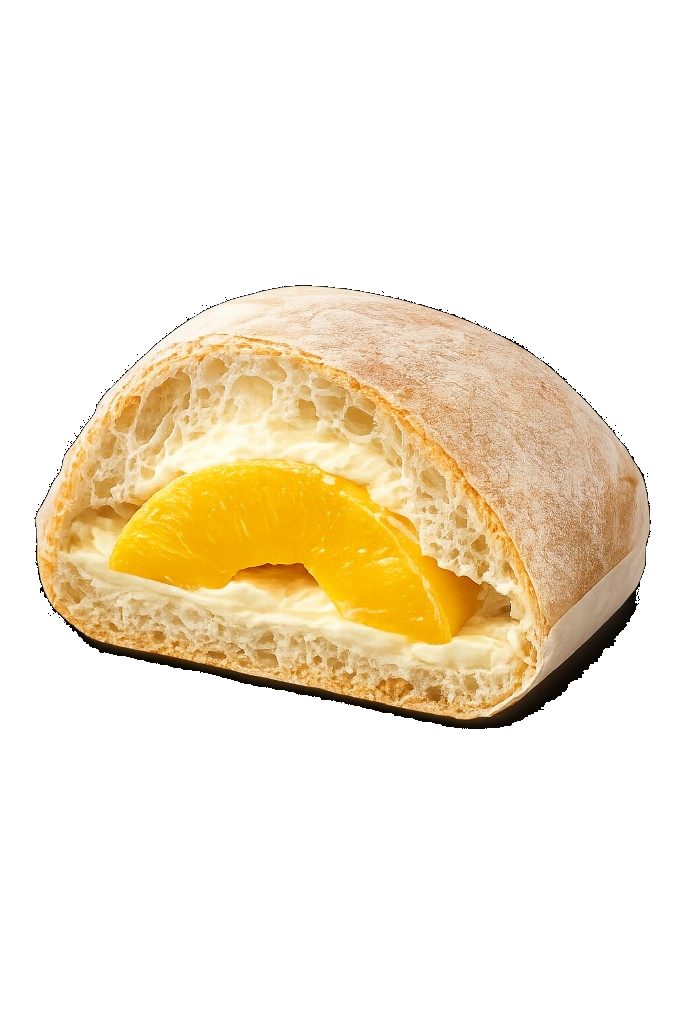
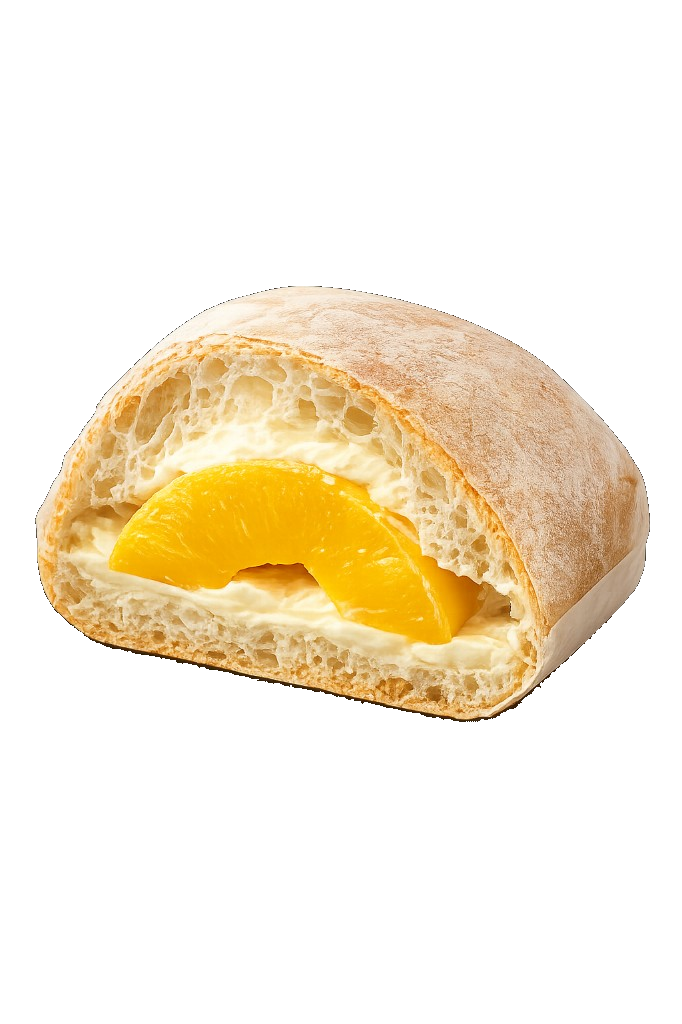
Fix artisan bread product photo matting.
Replace the kaya baguette image while keeping the kraft tray, and clear leftover black backgrounds on the ciabatta photos.

diff --git a/docs/script.js b/docs/script.js
@@ -293,10 +293,10 @@ const menuData = [
   { name: { en: "Chocolate Baguette", ko: "초콜릿바게트" }, category: "artisanBread", description: { en: "A chocolate baguette made with unsweetened cocoa powder, filled with rich dark chocolate for a luxurious chocolate taste.", ko: "무가당 카카오가루로 만든 초코바게트 속에 진한 다크초콜릿을 넣어 고급스러운 초콜릿맛을 느낄 수 있는 바게트", vi: "Baguette socola lam tu bot cacao khong duong, nhan dark chocolate dam de co huong socola cao cap.", ja: "無加糖ココアパウダーで作ったチョコバゲットの中に、濃いダークチョコレートを入れ、上品なチョコレート味を楽しめるバゲットです。", zh: "以无糖可可粉制作的巧克力法棍，夹入浓郁黑巧克力，可品味高级巧克力风味。" }, priceVnd: 95000, nutsIncluded: false, eggIncluded: false, eggWashIncluded: false, image: "images/bread-chocolate-baguette.png?v=20260614-6" },
   { name: { en: "Fig Cream Cheese Baguette", ko: "무화과크림치즈바게트" }, category: "artisanBread", description: { en: "Crispy baguette filled with dried figs and cream cheese.", ko: "바삭한 바게트 사이에 건무화과와 크림치즈를 넣은 빵입니다.", vi: "Baguette gion kep sung kho va kem pho mai.", ja: "カリッとしたバゲットの間にドライいちじくとクリームチーズを入れたパンです。", zh: "酥脆法棍中夹入无花果干与奶油芝士的面包。" }, priceVnd: 120000, nutsIncluded: false, eggIncluded: false, eggWashIncluded: false, image: "images/무화과크림치즈바게트.png" },
   { name: { en: "Red Bean Butter Baguette", ko: "앙버터바게트" }, category: "artisanBread", description: { en: "Crispy baguette filled with sweet red bean paste, butter, and savory cashews.", ko: "바삭한 바게트 사이에 달콤한 팥앙금과 버터, 고소한 캐슈넛을 넣은 빵입니다.", vi: "Baguette gion kep nhan dau do ngot, bo va hat dieu thom beo.", ja: "カリッとしたバゲットの間に甘い粒あんとバター、香ばしいカシューナッツを入れたパンです。", zh: "酥脆法棍中夹入香甜红豆馅、黄油与香浓腰果的面包。" }, priceVnd: 120000, nutsIncluded: true, eggIncluded: false, eggWashIncluded: false, image: "images/앙버터바게트.png" },
-  { name: { en: "Kaya Jam Butter Baguette", ko: "카야잼버터바게트", vi: "Baguette bơ mứt kaya", ja: "カヤジャムバターバゲット", zh: "咖椰酱黄油法棍" }, category: "artisanBread", description: { en: "Crispy baguette filled with sweet kaya jam and creamy butter.", ko: "바삭한 바게트 사이에 달콤한 카야잼과 부드러운 버터를 넣은 빵입니다.", vi: "Baguette giòn kẹp mứt kaya ngọt và bơ mềm béo.", ja: "カリッとしたバゲットに、甘いカヤジャムとなめらかなバターをサンドしたパンです。", zh: "酥脆法棍中夹入香甜咖椰酱与柔滑黄油的面包。" }, priceVnd: 85000, nutsIncluded: false, eggIncluded: true, eggWashIncluded: false, image: "images/kaya-jam-butter-baguette.png", imageScale: 1.4 },
-  { name: { en: "Peach Cream Cheese Ciabatta", ko: "황도크림치즈치아바타", vi: "Ciabatta kem phô mai đào", ja: "黄桃クリームチーズチャバッタ", zh: "黄桃奶油芝士恰巴塔" }, category: "artisanBread", description: { en: "Airy ciabatta filled with creamy cheese and sweet yellow peach.", ko: "폭신한 치아바타 사이에 부드러운 크림치즈와 달콤한 황도를 넣은 빵입니다.", vi: "Ciabatta xốp kẹp kem phô mai mềm và đào vàng ngọt.", ja: "ふわっとしたチャバッタに、なめらかなクリームチーズと甘い黄桃をサンドしたパンです。", zh: "松软恰巴塔中夹入柔滑奶油芝士与香甜黄桃的面包。" }, priceVnd: 100000, nutsIncluded: false, eggIncluded: false, eggWashIncluded: false, image: "images/peach-cream-cheese-ciabatta.png" },
+  { name: { en: "Kaya Jam Butter Baguette", ko: "카야잼버터바게트", vi: "Baguette bơ mứt kaya", ja: "カヤジャムバターバゲット", zh: "咖椰酱黄油法棍" }, category: "artisanBread", description: { en: "Crispy baguette filled with sweet kaya jam and creamy butter.", ko: "바삭한 바게트 사이에 달콤한 카야잼과 부드러운 버터를 넣은 빵입니다.", vi: "Baguette giòn kẹp mứt kaya ngọt và bơ mềm béo.", ja: "カリッとしたバゲットに、甘いカヤジャムとなめらかなバターをサンドしたパンです。", zh: "酥脆法棍中夹入香甜咖椰酱与柔滑黄油的面包。" }, priceVnd: 85000, nutsIncluded: false, eggIncluded: true, eggWashIncluded: false, image: "images/kaya-jam-butter-baguette.png?v=20260731-4", imageScale: 1.0 },
+  { name: { en: "Peach Cream Cheese Ciabatta", ko: "황도크림치즈치아바타", vi: "Ciabatta kem phô mai đào", ja: "黄桃クリームチーズチャバッタ", zh: "黄桃奶油芝士恰巴塔" }, category: "artisanBread", description: { en: "Airy ciabatta filled with creamy cheese and sweet yellow peach.", ko: "폭신한 치아바타 사이에 부드러운 크림치즈와 달콤한 황도를 넣은 빵입니다.", vi: "Ciabatta xốp kẹp kem phô mai mềm và đào vàng ngọt.", ja: "ふわっとしたチャバッタに、なめらかなクリームチーズと甘い黄桃をサンドしたパンです。", zh: "松软恰巴塔中夹入柔滑奶油芝士与香甜黄桃的面包。" }, priceVnd: 100000, nutsIncluded: false, eggIncluded: false, eggWashIncluded: false, image: "images/peach-cream-cheese-ciabatta.png?v=20260731-2" },
   { name: { en: "Basil Tomato Olive Cheese Ciabatta", ko: "바질토마토올리브치즈치아바타", vi: "Ciabatta húng quế cà chua ô liu phô mai", ja: "バジルトマトオリーブチーズチャバッタ", zh: "罗勒番茄橄榄芝士恰巴塔" }, category: "artisanBread", description: { en: "Ciabatta topped with basil, tomato, olive, and melted cheese.", ko: "바질, 토마토, 올리브, 치즈를 올려 구운 치아바타입니다.", vi: "Ciabatta nướng với húng quế, cà chua, ô liu và phô mai chảy.", ja: "バジル、トマト、オリーブ、チーズをのせて焼き上げたチャバッタです。", zh: "铺上罗勒、番茄、橄榄与融化芝士烘烤而成的恰巴塔。" }, priceVnd: 85000, nutsIncluded: false, eggIncluded: false, eggWashIncluded: false, image: "images/basil-tomato-olive-cheese-ciabatta.png" },
-  { name: { en: "Plain Ciabatta", ko: "플레인치아바타", vi: "Ciabatta plain", ja: "プレーンチャバッタ", zh: "原味恰巴塔" }, category: "artisanBread", description: { en: "Classic plain ciabatta with a crisp crust and an airy crumb.", ko: "바삭한 겉면과 폭신한 속결이 특징인 기본 치아바타입니다.", vi: "Ciabatta plain cổ điển với vỏ giòn và ruột xốp nhẹ.", ja: "カリッとした外皮とふわっとした内相が特徴のプレーンチャバッタです。", zh: "外皮酥脆、内部松软的经典原味恰巴塔。" }, priceVnd: 39000, nutsIncluded: false, eggIncluded: false, eggWashIncluded: false, image: "images/plain-ciabatta.png" },
+  { name: { en: "Plain Ciabatta", ko: "플레인치아바타", vi: "Ciabatta plain", ja: "プレーンチャバッタ", zh: "原味恰巴塔" }, category: "artisanBread", description: { en: "Classic plain ciabatta with a crisp crust and an airy crumb.", ko: "바삭한 겉면과 폭신한 속결이 특징인 기본 치아바타입니다.", vi: "Ciabatta plain cổ điển với vỏ giòn và ruột xốp nhẹ.", ja: "カリッとした外皮とふわっとした内相が特徴のプレーンチャバッタです。", zh: "外皮酥脆、内部松软的经典原味恰巴塔。" }, priceVnd: 39000, nutsIncluded: false, eggIncluded: false, eggWashIncluded: false, image: "images/plain-ciabatta.png?v=20260731-2" },
   { name: { en: "Garlic Cream Cheese Baguette", ko: "갈릭크림치즈 바게트" }, category: "sweetBread", description: { en: "Crispy light baguette filled with cream cheese and baked with generous garlic sauce.", ko: "바삭하고 가벼운 바게트 사이에 크림치즈를 넣고 마늘 소스를 듬뿍 발라 구운 빵", vi: "Baguette gion nhe nhoi kem pho mai va phu nhieu sot toi roi nuong.", ja: "カリッと軽いバゲットの間にクリームチーズを入れ、ガーリックソースをたっぷり塗って焼いたパンです。", zh: "在酥脆轻盈法棍中夹入奶油芝士并涂抹大量蒜香酱烘烤而成的面包。" }, priceVnd: 55000, nutsIncluded: false, eggIncluded: true, eggWashIncluded: false, image: "images/bread-garlic-cream-cheese-baguette.png" },
   { name: { en: "Shrimp Baguette", ko: "새우바게트" }, category: "sweetBread", description: { en: "Crispy light baguette filled with savory shrimp cream cheese and baked with shrimp topping.", ko: "바삭하고 가벼운 바게트 사이에 짭짤한 감칠맛이 있는 새우크림치즈를 넣고 새우토핑을 올려 구운 빵", vi: "Baguette gion nhe nhoi kem pho mai tom man va phu topping tom roi nuong.", ja: "カリッと軽いバゲットの間に、旨みのあるエビクリームチーズを入れ、エビトッピングをのせて焼いたパンです。", zh: "在酥脆轻盈的法棍中夹入咸香鲜美的虾奶油芝士，并铺上虾配料后烘烤而成的面包。" }, priceVnd: 55000, nutsIncluded: false, eggIncluded: false, eggWashIncluded: false, image: "images/bread-shrimp-baguette.png?v=20260614-2", imageScale: 0.95 },
 

diff --git a/script.js b/script.js
@@ -293,10 +293,10 @@ const menuData = [
   { name: { en: "Chocolate Baguette", ko: "초콜릿바게트" }, category: "artisanBread", description: { en: "A chocolate baguette made with unsweetened cocoa powder, filled with rich dark chocolate for a luxurious chocolate taste.", ko: "무가당 카카오가루로 만든 초코바게트 속에 진한 다크초콜릿을 넣어 고급스러운 초콜릿맛을 느낄 수 있는 바게트", vi: "Baguette socola lam tu bot cacao khong duong, nhan dark chocolate dam de co huong socola cao cap.", ja: "無加糖ココアパウダーで作ったチョコバゲットの中に、濃いダークチョコレートを入れ、上品なチョコレート味を楽しめるバゲットです。", zh: "以无糖可可粉制作的巧克力法棍，夹入浓郁黑巧克力，可品味高级巧克力风味。" }, priceVnd: 95000, nutsIncluded: false, eggIncluded: false, eggWashIncluded: false, image: "images/bread-chocolate-baguette.png?v=20260614-6" },
   { name: { en: "Fig Cream Cheese Baguette", ko: "무화과크림치즈바게트" }, category: "artisanBread", description: { en: "Crispy baguette filled with dried figs and cream cheese.", ko: "바삭한 바게트 사이에 건무화과와 크림치즈를 넣은 빵입니다.", vi: "Baguette gion kep sung kho va kem pho mai.", ja: "カリッとしたバゲットの間にドライいちじくとクリームチーズを入れたパンです。", zh: "酥脆法棍中夹入无花果干与奶油芝士的面包。" }, priceVnd: 120000, nutsIncluded: false, eggIncluded: false, eggWashIncluded: false, image: "images/무화과크림치즈바게트.png" },
   { name: { en: "Red Bean Butter Baguette", ko: "앙버터바게트" }, category: "artisanBread", description: { en: "Crispy baguette filled with sweet red bean paste, butter, and savory cashews.", ko: "바삭한 바게트 사이에 달콤한 팥앙금과 버터, 고소한 캐슈넛을 넣은 빵입니다.", vi: "Baguette gion kep nhan dau do ngot, bo va hat dieu thom beo.", ja: "カリッとしたバゲットの間に甘い粒あんとバター、香ばしいカシューナッツを入れたパンです。", zh: "酥脆法棍中夹入香甜红豆馅、黄油与香浓腰果的面包。" }, priceVnd: 120000, nutsIncluded: true, eggIncluded: false, eggWashIncluded: false, image: "images/앙버터바게트.png" },
-  { name: { en: "Kaya Jam Butter Baguette", ko: "카야잼버터바게트", vi: "Baguette bơ mứt kaya", ja: "カヤジャムバターバゲット", zh: "咖椰酱黄油法棍" }, category: "artisanBread", description: { en: "Crispy baguette filled with sweet kaya jam and creamy butter.", ko: "바삭한 바게트 사이에 달콤한 카야잼과 부드러운 버터를 넣은 빵입니다.", vi: "Baguette giòn kẹp mứt kaya ngọt và bơ mềm béo.", ja: "カリッとしたバゲットに、甘いカヤジャムとなめらかなバターをサンドしたパンです。", zh: "酥脆法棍中夹入香甜咖椰酱与柔滑黄油的面包。" }, priceVnd: 85000, nutsIncluded: false, eggIncluded: true, eggWashIncluded: false, image: "images/kaya-jam-butter-baguette.png", imageScale: 1.4 },
-  { name: { en: "Peach Cream Cheese Ciabatta", ko: "황도크림치즈치아바타", vi: "Ciabatta kem phô mai đào", ja: "黄桃クリームチーズチャバッタ", zh: "黄桃奶油芝士恰巴塔" }, category: "artisanBread", description: { en: "Airy ciabatta filled with creamy cheese and sweet yellow peach.", ko: "폭신한 치아바타 사이에 부드러운 크림치즈와 달콤한 황도를 넣은 빵입니다.", vi: "Ciabatta xốp kẹp kem phô mai mềm và đào vàng ngọt.", ja: "ふわっとしたチャバッタに、なめらかなクリームチーズと甘い黄桃をサンドしたパンです。", zh: "松软恰巴塔中夹入柔滑奶油芝士与香甜黄桃的面包。" }, priceVnd: 100000, nutsIncluded: false, eggIncluded: false, eggWashIncluded: false, image: "images/peach-cream-cheese-ciabatta.png" },
+  { name: { en: "Kaya Jam Butter Baguette", ko: "카야잼버터바게트", vi: "Baguette bơ mứt kaya", ja: "カヤジャムバターバゲット", zh: "咖椰酱黄油法棍" }, category: "artisanBread", description: { en: "Crispy baguette filled with sweet kaya jam and creamy butter.", ko: "바삭한 바게트 사이에 달콤한 카야잼과 부드러운 버터를 넣은 빵입니다.", vi: "Baguette giòn kẹp mứt kaya ngọt và bơ mềm béo.", ja: "カリッとしたバゲットに、甘いカヤジャムとなめらかなバターをサンドしたパンです。", zh: "酥脆法棍中夹入香甜咖椰酱与柔滑黄油的面包。" }, priceVnd: 85000, nutsIncluded: false, eggIncluded: true, eggWashIncluded: false, image: "images/kaya-jam-butter-baguette.png?v=20260731-4", imageScale: 1.0 },
+  { name: { en: "Peach Cream Cheese Ciabatta", ko: "황도크림치즈치아바타", vi: "Ciabatta kem phô mai đào", ja: "黄桃クリームチーズチャバッタ", zh: "黄桃奶油芝士恰巴塔" }, category: "artisanBread", description: { en: "Airy ciabatta filled with creamy cheese and sweet yellow peach.", ko: "폭신한 치아바타 사이에 부드러운 크림치즈와 달콤한 황도를 넣은 빵입니다.", vi: "Ciabatta xốp kẹp kem phô mai mềm và đào vàng ngọt.", ja: "ふわっとしたチャバッタに、なめらかなクリームチーズと甘い黄桃をサンドしたパンです。", zh: "松软恰巴塔中夹入柔滑奶油芝士与香甜黄桃的面包。" }, priceVnd: 100000, nutsIncluded: false, eggIncluded: false, eggWashIncluded: false, image: "images/peach-cream-cheese-ciabatta.png?v=20260731-2" },
   { name: { en: "Basil Tomato Olive Cheese Ciabatta", ko: "바질토마토올리브치즈치아바타", vi: "Ciabatta húng quế cà chua ô liu phô mai", ja: "バジルトマトオリーブチーズチャバッタ", zh: "罗勒番茄橄榄芝士恰巴塔" }, category: "artisanBread", description: { en: "Ciabatta topped with basil, tomato, olive, and melted cheese.", ko: "바질, 토마토, 올리브, 치즈를 올려 구운 치아바타입니다.", vi: "Ciabatta nướng với húng quế, cà chua, ô liu và phô mai chảy.", ja: "バジル、トマト、オリーブ、チーズをのせて焼き上げたチャバッタです。", zh: "铺上罗勒、番茄、橄榄与融化芝士烘烤而成的恰巴塔。" }, priceVnd: 85000, nutsIncluded: false, eggIncluded: false, eggWashIncluded: false, image: "images/basil-tomato-olive-cheese-ciabatta.png" },
-  { name: { en: "Plain Ciabatta", ko: "플레인치아바타", vi: "Ciabatta plain", ja: "プレーンチャバッタ", zh: "原味恰巴塔" }, category: "artisanBread", description: { en: "Classic plain ciabatta with a crisp crust and an airy crumb.", ko: "바삭한 겉면과 폭신한 속결이 특징인 기본 치아바타입니다.", vi: "Ciabatta plain cổ điển với vỏ giòn và ruột xốp nhẹ.", ja: "カリッとした外皮とふわっとした内相が特徴のプレーンチャバッタです。", zh: "外皮酥脆、内部松软的经典原味恰巴塔。" }, priceVnd: 39000, nutsIncluded: false, eggIncluded: false, eggWashIncluded: false, image: "images/plain-ciabatta.png" },
+  { name: { en: "Plain Ciabatta", ko: "플레인치아바타", vi: "Ciabatta plain", ja: "プレーンチャバッタ", zh: "原味恰巴塔" }, category: "artisanBread", description: { en: "Classic plain ciabatta with a crisp crust and an airy crumb.", ko: "바삭한 겉면과 폭신한 속결이 특징인 기본 치아바타입니다.", vi: "Ciabatta plain cổ điển với vỏ giòn và ruột xốp nhẹ.", ja: "カリッとした外皮とふわっとした内相が特徴のプレーンチャバッタです。", zh: "外皮酥脆、内部松软的经典原味恰巴塔。" }, priceVnd: 39000, nutsIncluded: false, eggIncluded: false, eggWashIncluded: false, image: "images/plain-ciabatta.png?v=20260731-2" },
   { name: { en: "Garlic Cream Cheese Baguette", ko: "갈릭크림치즈 바게트" }, category: "sweetBread", description: { en: "Crispy light baguette filled with cream cheese and baked with generous garlic sauce.", ko: "바삭하고 가벼운 바게트 사이에 크림치즈를 넣고 마늘 소스를 듬뿍 발라 구운 빵", vi: "Baguette gion nhe nhoi kem pho mai va phu nhieu sot toi roi nuong.", ja: "カリッと軽いバゲットの間にクリームチーズを入れ、ガーリックソースをたっぷり塗って焼いたパンです。", zh: "在酥脆轻盈法棍中夹入奶油芝士并涂抹大量蒜香酱烘烤而成的面包。" }, priceVnd: 55000, nutsIncluded: false, eggIncluded: true, eggWashIncluded: false, image: "images/bread-garlic-cream-cheese-baguette.png" },
   { name: { en: "Shrimp Baguette", ko: "새우바게트" }, category: "sweetBread", description: { en: "Crispy light baguette filled with savory shrimp cream cheese and baked with shrimp topping.", ko: "바삭하고 가벼운 바게트 사이에 짭짤한 감칠맛이 있는 새우크림치즈를 넣고 새우토핑을 올려 구운 빵", vi: "Baguette gion nhe nhoi kem pho mai tom man va phu topping tom roi nuong.", ja: "カリッと軽いバゲットの間に、旨みのあるエビクリームチーズを入れ、エビトッピングをのせて焼いたパンです。", zh: "在酥脆轻盈的法棍中夹入咸香鲜美的虾奶油芝士，并铺上虾配料后烘烤而成的面包。" }, priceVnd: 55000, nutsIncluded: false, eggIncluded: false, eggWashIncluded: false, image: "images/bread-shrimp-baguette.png?v=20260614-2", imageScale: 0.95 },
 

diff --git a/tools/WhiteBgTransparent.cs b/tools/WhiteBgTransparent.cs
@@ -178,7 +178,42 @@ class Program
 
     static bool IsDarkBackgroundPixel(byte r, byte g, byte b)
     {
-        return r <= 8 && g <= 8 && b <= 8;
+        int avg = (r + g + b) / 3;
+        int sp = Spread(r, g, b);
+        return avg <= 38 && sp <= 28;
+    }
+
+    static bool IsDarkGrowPixel(byte r, byte g, byte b)
+    {
+        int avg = (r + g + b) / 3;
+        int sp = Spread(r, g, b);
+        return avg <= 52 && sp <= 36;
+    }
+
+    static void GrowDarkBackgroundMask(byte[] buf, int stride, int w, int h, bool[] mark, int passes)
+    {
+        var next = new bool[w * h];
+        for (int pass = 0; pass < passes; pass++)
+        {
+            Array.Copy(mark, next, mark.Length);
+            bool any = false;
+            for (int y = 0; y < h; y++)
+            {
+                for (int x = 0; x < w; x++)
+                {
+                    int p = y * w + x;
+                    if (mark[p]) continue;
+                    if (!NeighborMarked(mark, w, h, x, y)) continue;
+                    byte r, g, b;
+                    GetRgb(buf, stride, w, h, x, y, out r, out g, out b);
+                    if (!IsDarkGrowPixel(r, g, b)) continue;
+                    next[p] = true;
+                    any = true;
+                }
+            }
+            if (!any) break;
+            Array.Copy(next, mark, mark.Length);
+        }
     }
 
     static void FloodExteriorDarkBackground(byte[] buf, int stride, int w, int h, bool[] exterior)
@@ -204,6 +239,7 @@ class Program
             TryEnqueueDarkBg(buf, stride, w, h, exterior, q, x, y - 1);
             TryEnqueueDarkBg(buf, stride, w, h, exterior, q, x, y + 1);
         }
+        GrowDarkBackgroundMask(buf, stride, w, h, exterior, 10);
     }
 
     static void TryEnqueueDarkBg(byte[] buf, int stride, int w, int h, bool[] mark, Queue<int> q, int x, int y)
